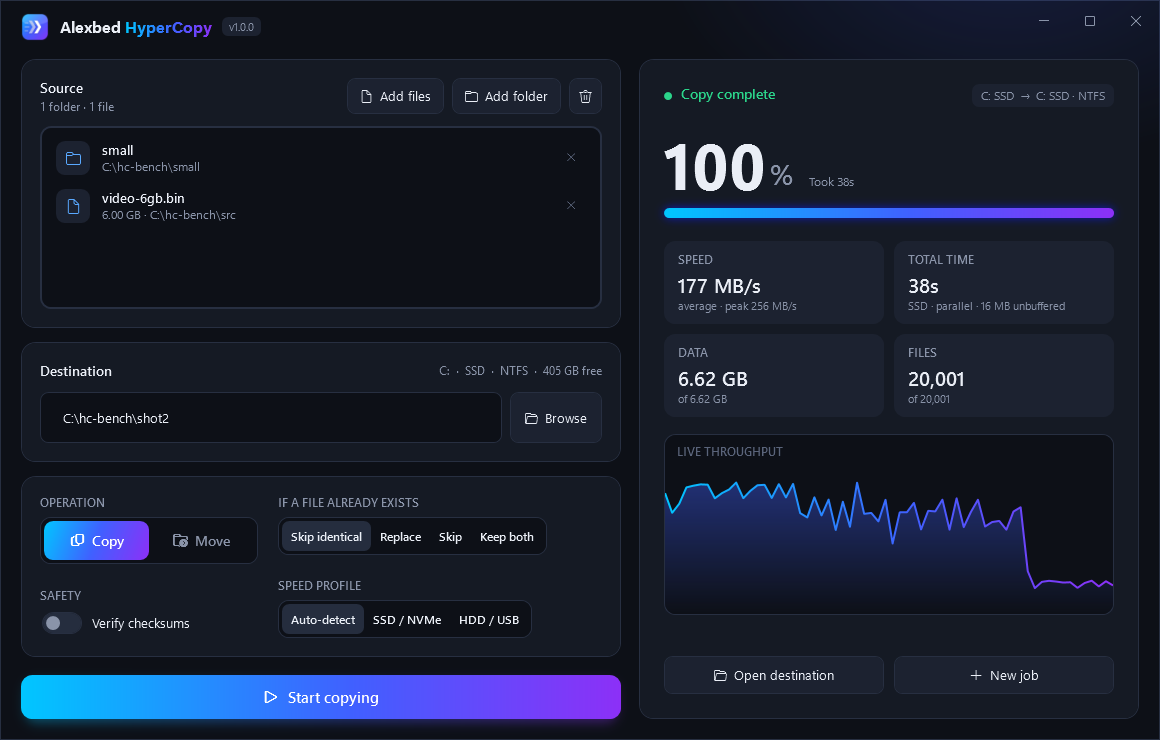
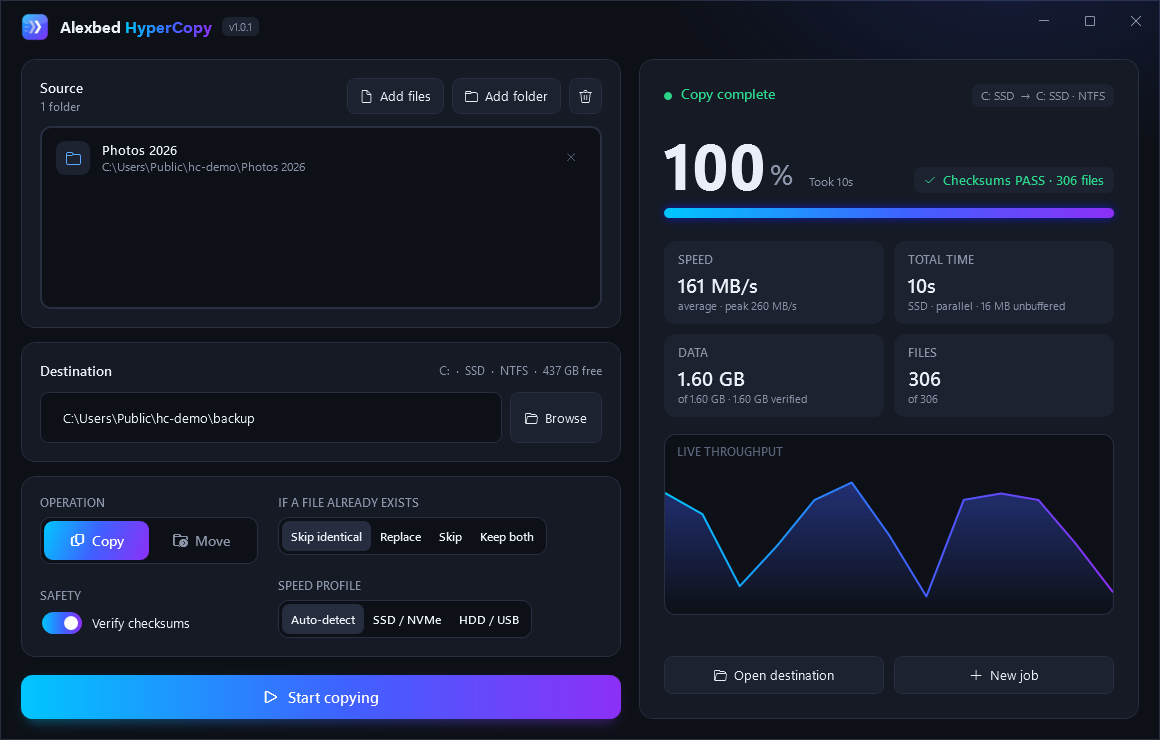
Alexbed HyperCopy 1.0.1: checksum PASS/FAIL badge
With "Verify checksums" on, the finished screen shows a clear verdict:
"Checksums PASS · N files" (green) or "Checksum FAIL · N files" (red),
with details on hover. No log file is written. The CLI prints the same.

- Engine counts files whose read-back matched (ChecksumsPassed) and files
  that still mismatched after retries (ChecksumsFailed, new
  ChecksumMismatchException); both are exposed on CopyResult.
- Tests: pass count, skipped files not counted, and a corrupted copy is
  reported as FAIL and deleted (38 tests).
- HYPERCOPY_VERIFY=1 test hook for screenshots; new complete.png.

diff --git a/src/Alexbed.HyperCopy.App/MainWindow.xaml b/src/Alexbed.HyperCopy.App/MainWindow.xaml
@@ -307,6 +307,14 @@
                                 </StackPanel>
                             </DockPanel>
 
+                            <Border Grid.Row="1" HorizontalAlignment="Right" VerticalAlignment="Bottom" Margin="0,0,0,13"
+                                    Background="{StaticResource Surface2}" CornerRadius="7" Padding="10,5" ToolTip="{Binding ChecksumTip}"
+                                    Visibility="{Binding ShowChecksum, Converter={StaticResource BoolToVis}}">
+                                <StackPanel Orientation="Horizontal">
+                                    <TextBlock FontFamily="{StaticResource IconFont}" Text="{Binding ChecksumGlyph}" FontSize="12" Foreground="{Binding ChecksumBrush}" VerticalAlignment="Center" Margin="0,0,7,0"/>
+                                    <TextBlock Text="{Binding ChecksumText}" FontSize="12.5" FontWeight="SemiBold" Foreground="{Binding ChecksumBrush}" VerticalAlignment="Center"/>
+                                </StackPanel>
+                            </Border>
                             <StackPanel Grid.Row="1" Orientation="Horizontal" Margin="0,14,0,0">
                                 <TextBlock Text="{Binding PercentText}" FontFamily="{StaticResource DisplayFont}" FontSize="64" FontWeight="Bold" Foreground="{StaticResource Text}"/>
                                 <TextBlock Text="%" FontFamily="{StaticResource DisplayFont}" FontSize="28" FontWeight="SemiBold" Foreground="{StaticResource Muted}" VerticalAlignment="Bottom" Margin="4,0,0,14"/>

diff --git a/src/Alexbed.HyperCopy.App/MainViewModel.cs b/src/Alexbed.HyperCopy.App/MainViewModel.cs
@@ -155,6 +155,18 @@ public sealed class MainViewModel : Observable
     private string _currentFile = "";
     public string CurrentFile { get => _currentFile; private set => Set(ref _currentFile, value); }
     private double _peak;
+
+    // Checksum pass/fail badge (only when "Verify checksums" is on).
+    private bool _showChecksum;
+    public bool ShowChecksum { get => _showChecksum; private set => Set(ref _showChecksum, value); }
+    private string _checksumText = "";
+    public string ChecksumText { get => _checksumText; private set => Set(ref _checksumText, value); }
+    private string _checksumGlyph = "";
+    public string ChecksumGlyph { get => _checksumGlyph; private set => Set(ref _checksumGlyph, value); }
+    private string _checksumTip = "";
+    public string ChecksumTip { get => _checksumTip; private set => Set(ref _checksumTip, value); }
+    private Brush _checksumBrush = Brushes.White;
+    public Brush ChecksumBrush { get => _checksumBrush; private set => Set(ref _checksumBrush, value); }
     public bool HasErrors => Errors.Count > 0;
 
     // ── Commands ──
@@ -243,6 +255,7 @@ public sealed class MainViewModel : Observable
             else if (result.FilesFailed > 0) Finish($"Finished with {result.FilesFailed} error{(result.FilesFailed == 1 ? "" : "s")}", "Warning");
             else Finish(Mode == TransferMode.Move ? "Move complete" : "Copy complete", "Success");
 
+            UpdateChecksumBadge(_engine.Progress, done: !result.Cancelled && result.FatalError is null);
             ElapsedText = $"Took {Format.Duration(result.Elapsed)}";
             if (result.BytesTransferred > 0)
             {
@@ -376,6 +389,7 @@ public sealed class MainViewModel : Observable
         FilesText = Format.Count(doneFiles);
         FilesSub = $"of {Format.Count(p.TotalFiles)}" + (p.FailedFiles > 0 ? $" · {p.FailedFiles} failed" : "") +
                    (p.SkippedFiles > 0 ? $" · {Format.Count(p.SkippedFiles)} skipped" : "");
+        UpdateChecksumBadge(p, done: false);
         if (State is JobState.Running or JobState.Paused && p.CurrentFile is { } cf)
             CurrentFile = cf;
         Raise(nameof(EtaLabel));
@@ -385,6 +399,47 @@ public sealed class MainViewModel : Observable
     {
         Percent = 0; PercentText = "0"; SpeedText = "—"; SpeedSub = ""; EtaText = "—"; ElapsedText = "";
         BytesText = "—"; BytesSub = ""; FilesText = "—"; FilesSub = ""; CurrentFile = "";
+        ShowChecksum = false; ChecksumText = ""; ChecksumTip = "";
+    }
+
+    /// <summary>PASS / FAIL badge for the verification pass. While running it shows the count so far;
+    /// once the job has finished normally it gives the final verdict.</summary>
+    private void UpdateChecksumBadge(CopyProgress p, bool done)
+    {
+        if (!p.VerifyEnabled) { ShowChecksum = false; return; }
+        ShowChecksum = true;
+        long passed = p.ChecksumsPassed, failed = p.ChecksumsFailed;
+        string skipped = p.SkippedFiles > 0 ? $"\n{Format.Count(p.SkippedFiles)} skipped file(s) were not copied, so not checked." : "";
+
+        if (failed > 0)
+        {
+            ChecksumGlyph = "";
+            ChecksumText = $"Checksum FAIL · {Format.Count(failed)} file{(failed == 1 ? "" : "s")}";
+            ChecksumBrush = (Brush)Application.Current.Resources["Danger"];
+            ChecksumTip = $"{Format.Count(failed)} file(s) did not match the source after retrying. They are listed with the errors; " +
+                          $"the bad copies were deleted. {Format.Count(passed)} file(s) matched.{skipped}";
+        }
+        else if (!done)
+        {
+            ChecksumGlyph = "";
+            ChecksumText = $"Checksums · {Format.Count(passed)} OK";
+            ChecksumBrush = (Brush)Application.Current.Resources["Muted"];
+            ChecksumTip = "Every copied file is read back from the destination and its XXH3 checksum compared with the source.";
+        }
+        else if (passed > 0)
+        {
+            ChecksumGlyph = "";
+            ChecksumText = $"Checksums PASS · {Format.Count(passed)} file{(passed == 1 ? "" : "s")}";
+            ChecksumBrush = (Brush)Application.Current.Resources["Success"];
+            ChecksumTip = $"All {Format.Count(passed)} copied file(s) were read back from the destination and match the source (XXH3).{skipped}";
+        }
+        else
+        {
+            ChecksumGlyph = "";
+            ChecksumText = "Checksums · nothing to check";
+            ChecksumBrush = (Brush)Application.Current.Resources["Muted"];
+            ChecksumTip = "No file data was written (files were skipped, or moved instantly on the same drive), so there was nothing to verify." + skipped;
+        }
     }
 
     private void SetStatus(string text, string brushKey)

diff --git a/src/Alexbed.HyperCopy.Core/CopyEngine.cs b/src/Alexbed.HyperCopy.Core/CopyEngine.cs
@@ -22,6 +22,9 @@ public sealed class CopyEngine
 
     private readonly CopyOptions _options;
     private readonly ConcurrentQueue<CopyError> _errors = new();
+
+    /// <summary>Test hook: runs on the written file just before it is read back for verification.</summary>
+    internal Action<string>? BeforeVerify { get; set; }
     private readonly ConcurrentBag<PipelinedFileCopier> _copierPool = new();
     private TuningProfile _tuning = null!;
 
@@ -284,6 +287,9 @@ public sealed class CopyEngine
         result.FilesCopied = Progress.CompletedFiles;
         result.FilesSkipped = Progress.SkippedFiles;
         result.FilesFailed = Progress.FailedFiles;
+        result.Verified = _options.Verify;
+        result.ChecksumsPassed = Progress.ChecksumsPassed;
+        result.ChecksumsFailed = Progress.ChecksumsFailed;
         result.BytesTransferred = Progress.TransferredBytes;
         result.Errors.AddRange(_errors);
         return result;
@@ -393,7 +399,10 @@ public sealed class CopyEngine
                 FastFileIo.ApplyAttributes(dest, item.Attributes);
 
                 if (_options.Verify)
+                {
+                    BeforeVerify?.Invoke(dest);
                     VerifyCopy(dest, srcHash, ct);
+                }
 
                 // Balance the percentage when the file changed size since the scan.
                 if (reported != item.Length) Progress.AddProcessedOnly(item.Length - reported);
@@ -401,6 +410,7 @@ public sealed class CopyEngine
                 if (_options.Mode == TransferMode.Move)
                     DeleteSource(item.Source);
 
+                if (_options.Verify) Progress.ChecksumPassed();
                 Progress.FileCompleted();
                 return;
             }
@@ -426,6 +436,7 @@ public sealed class CopyEngine
 
                 Progress.AddProcessedOnly(item.Length);
                 Progress.FileFailed();
+                if (ex is ChecksumMismatchException) Progress.ChecksumFailed();
                 _errors.Enqueue(new CopyError(item.Source, Describe(ex)));
                 return;
             }
@@ -545,7 +556,7 @@ public sealed class CopyEngine
         {
             ulong actual = FastFileIo.HashFile(dest, buffer, n => { verified += n; Progress.AddVerified(n); }, Pause, ct);
             if (actual != expected)
-                throw new IOException("Verification failed: the copy does not match the source (checksum mismatch).");
+                throw new ChecksumMismatchException();
         }
         catch
         {
@@ -648,3 +659,7 @@ public sealed class CopyEngine
         _ => ex.Message,
     };
 }
+
+/// <summary>The copy read back from the destination does not match the source.</summary>
+public sealed class ChecksumMismatchException()
+    : IOException("Verification failed: the copy does not match the source (checksum mismatch).");

diff --git a/tests/Alexbed.HyperCopy.Tests/EngineTests.cs b/tests/Alexbed.HyperCopy.Tests/EngineTests.cs
@@ -399,4 +399,59 @@ public class EngineTests
         var tuning = DriveProbe.ResolveTuning(d, d, new CopyOptions());
         Assert.True(tuning.BufferSize % 4096 == 0);
     }
+
+    [Fact]
+    public void Verify_reports_checksum_pass_count()
+    {
+        using var t = new TempDir();
+        var data = t.Sub("data");
+        MakeFile(Path.Combine(data, "small.bin"), 10_000);
+        MakeFile(Path.Combine(data, "sub", "large.bin"), 6L * 1024 * 1024);
+        var dst = t.Sub("dst");
+
+        var r = Run(new CopyOptions { Verify = true }, [data], dst);
+        Assert.True(r.Success);
+        Assert.True(r.Verified);
+        Assert.Equal(2, r.ChecksumsPassed);
+        Assert.Equal(0, r.ChecksumsFailed);
+
+        // A second run skips identical files: nothing copied, so nothing checked.
+        var again = Run(new CopyOptions { Verify = true, Conflict = ConflictPolicy.SkipIdentical }, [data], dst);
+        Assert.Equal(2, again.FilesSkipped);
+        Assert.Equal(0, again.ChecksumsPassed);
+
+        var off = Run(new CopyOptions { Conflict = ConflictPolicy.Overwrite }, [data], dst);
+        Assert.False(off.Verified);
+        Assert.Equal(0, off.ChecksumsPassed);
+    }
+
+    [Theory]
+    [InlineData(10_000L)]
+    [InlineData(6L * 1024 * 1024)]
+    public void Verify_reports_checksum_fail_when_copy_is_corrupted(long size)
+    {
+        using var t = new TempDir();
+        var src = MakeFile(Path.Combine(t.Sub("src"), "f.bin"), size);
+        var good = MakeFile(Path.Combine(t.Path, "src", "g.bin"), 5000);
+        var dst = t.Sub("dst");
+
+        var engine = new CopyEngine(new CopyOptions { Verify = true });
+        engine.BeforeVerify = path =>
+        {
+            if (!path.EndsWith("f.bin", StringComparison.Ordinal)) return;
+            using var fs = new FileStream(path, FileMode.Open, FileAccess.ReadWrite);
+            int b = fs.ReadByte();
+            fs.Position = 0;
+            fs.WriteByte((byte)(b ^ 0xFF)); // flip one byte on disk
+        };
+        var r = engine.Execute(engine.Scan([src, good], dst));
+
+        Assert.False(r.Success);
+        Assert.Equal(1, r.ChecksumsFailed);
+        Assert.Equal(1, r.ChecksumsPassed);
+        Assert.Equal(1, r.FilesFailed);
+        Assert.Contains(r.Errors, e => e.Message.Contains("checksum mismatch"));
+
+        Assert.False(File.Exists(Path.Combine(dst, "f.bin")));  // bad copy removed
+    }
 }

diff --git a/src/Alexbed.HyperCopy.Core/CopyProgress.cs b/src/Alexbed.HyperCopy.Core/CopyProgress.cs
@@ -19,6 +19,7 @@ public sealed class CopyProgress
     private long _totalBytes, _processedBytes, _transferredBytes, _verifiedBytes;
     private long _totalFiles, _completedFiles, _skippedFiles, _failedFiles;
     private long _scannedFiles, _scannedBytes;
+    private long _checksumsPassed, _checksumsFailed;
     private volatile string? _currentFile;
     private volatile CopyPhase _phase;
     private volatile bool _verifyEnabled;
@@ -36,6 +37,11 @@ public sealed class CopyProgress
     public long CompletedFiles => Interlocked.Read(ref _completedFiles);
     public long SkippedFiles => Interlocked.Read(ref _skippedFiles);
     public long FailedFiles => Interlocked.Read(ref _failedFiles);
+    /// <summary>Files whose copy was read back and matched the source checksum.</summary>
+    public long ChecksumsPassed => Interlocked.Read(ref _checksumsPassed);
+    /// <summary>Files that still did not match the source after all retries (they count as failed).</summary>
+    public long ChecksumsFailed => Interlocked.Read(ref _checksumsFailed);
+    public bool VerifyEnabled => _verifyEnabled;
     public long ScannedFiles => Interlocked.Read(ref _scannedFiles);
     public long ScannedBytes => Interlocked.Read(ref _scannedBytes);
 
@@ -64,6 +70,8 @@ public sealed class CopyProgress
         Interlocked.Exchange(ref _completedFiles, 0);
         Interlocked.Exchange(ref _skippedFiles, 0);
         Interlocked.Exchange(ref _failedFiles, 0);
+        Interlocked.Exchange(ref _checksumsPassed, 0);
+        Interlocked.Exchange(ref _checksumsFailed, 0);
         _verifyEnabled = verify;
     }
 
@@ -104,6 +112,8 @@ public sealed class CopyProgress
     internal void FilesCompleted(long count) => Interlocked.Add(ref _completedFiles, count);
     internal void FileSkipped() => Interlocked.Increment(ref _skippedFiles);
     internal void FileFailed() => Interlocked.Increment(ref _failedFiles);
+    internal void ChecksumPassed() => Interlocked.Increment(ref _checksumsPassed);
+    internal void ChecksumFailed() => Interlocked.Increment(ref _checksumsFailed);
 }
 
 /// <summary>Cooperative pause gate checked between buffers and between files.</summary>

diff --git a/src/Alexbed.HyperCopy.Cli/Program.cs b/src/Alexbed.HyperCopy.Cli/Program.cs
@@ -84,6 +84,10 @@ if (!quiet)
 var r = job.Result;
 Console.WriteLine($"Done in {r.Elapsed.TotalSeconds:0.00}s — copied {r.FilesCopied}, skipped {r.FilesSkipped}, failed {r.FilesFailed}, " +
                   $"{Format.Bytes(r.BytesTransferred)} @ {Format.Speed(r.AverageBytesPerSecond)}");
+if (r.Verified)
+    Console.WriteLine(r.ChecksumsFailed > 0
+        ? $"Checksums: FAIL — {r.ChecksumsFailed} file(s) did not match the source ({r.ChecksumsPassed} passed)"
+        : $"Checksums: PASS — {r.ChecksumsPassed} file(s) read back and matched" + (r.FilesSkipped > 0 ? $" ({r.FilesSkipped} skipped, not checked)" : ""));
 if (r.Cancelled) Console.WriteLine("Cancelled.");
 if (r.FatalError is not null) Console.WriteLine("Fatal: " + r.FatalError);
 foreach (var e in r.Errors.Take(50)) Console.WriteLine($"  ! {e.Path}: {e.Message}");

diff --git a/src/Alexbed.HyperCopy.Core/CopyPlan.cs b/src/Alexbed.HyperCopy.Core/CopyPlan.cs
@@ -54,6 +54,10 @@ public sealed class CopyResult
     public long FilesCopied { get; internal set; }
     public long FilesSkipped { get; internal set; }
     public long FilesFailed { get; internal set; }
+    /// <summary>True when the job ran with checksum verification.</summary>
+    public bool Verified { get; internal set; }
+    public long ChecksumsPassed { get; internal set; }
+    public long ChecksumsFailed { get; internal set; }
     public long BytesTransferred { get; internal set; }
     public TimeSpan Elapsed { get; internal set; }
     public bool Cancelled { get; internal set; }

diff --git a/src/Alexbed.HyperCopy.App/MainWindow.xaml.cs b/src/Alexbed.HyperCopy.App/MainWindow.xaml.cs
@@ -50,6 +50,8 @@ public partial class MainWindow : Window
 
         Loaded += async (_, _) =>
         {
+            if (Environment.GetEnvironmentVariable("HYPERCOPY_VERIFY") == "1")
+                _vm.Verify = true;
             if (Environment.GetEnvironmentVariable("HYPERCOPY_AUTOSTART") == "1")
                 _ = _vm.StartAsync(this);
             if (Environment.GetEnvironmentVariable("HYPERCOPY_SNAPSHOT") is { Length: > 0 } shot)

diff --git a/CLAUDE.md b/CLAUDE.md
@@ -5,7 +5,7 @@ A free, portable Windows 10/11 app that copies and moves files (up to terabytes)
 choose sources and a destination folder or USB drive, pick **Copy** or **Move**, and watch live speed/ETA. It's one
 of Alexander's "Alexbed" apps, built from scratch with Claude in Nov 2026.
 
-- **Status:** v1.0.0 released 2026-11-13. Public repo https://github.com/alexbedca/Alexbed-HyperCopy
+- **Status:** v1.0.1 released 2026-11-14 (checksum PASS/FAIL badge); v1.0.0 released 2026-11-13. Public repo https://github.com/alexbedca/Alexbed-HyperCopy
   (GPL-3.0-or-later), release with `AlexbedHyperCopy.exe` + `hypercopy.exe` (CLI) + `SHA256SUMS.txt`, CI green,
   social preview set.
 - **Next (v1.1):** close the small-file gap with Robocopy `/MT` on SSD (~2× slower today). See `ROADMAP.md`.
@@ -18,17 +18,17 @@ C# / .NET 10 (`net10.0-windows`), WPF UI, xUnit tests, System.IO.Hashing (XXH3) 
 src/Alexbed.HyperCopy.Core   engine: CopyEngine, PipelinedFileCopier (FastFileIo.cs), DriveProbe, options/progress
 src/Alexbed.HyperCopy.App    WPF window: MainWindow.xaml(.cs), MainViewModel.cs, theme in App.xaml
 src/Alexbed.HyperCopy.Cli    hypercopy.exe
-tests/Alexbed.HyperCopy.Tests  35 tests
+tests/Alexbed.HyperCopy.Tests  38 tests
 tools/                       benchmark.ps1, make_logo.py, make_social_preview.py
 build.ps1                    tests + portable exes + checksums (also used by CI)
 ```
 
 ## Tools for this project
 **Project commands**
-- `dotnet test -c Release`: 35 tests, ~15 s. Every engine change needs a test.
+- `dotnet test -c Release`: 38 tests, ~15 s. Every engine change needs a test.
 - `powershell -ExecutionPolicy Bypass -File build.ps1` → `dist\` (self-contained single-file exes, ~64 MB + ~36 MB).
 - `dotnet run --project src/Alexbed.HyperCopy.Cli -- copy <src>... <dst> [--verify --profile ssd|hdd --write-depth N --buffer-mb N --threads N]`.
-- Snapshot hook: `HYPERCOPY_SNAPSHOT=<png>` (+ `HYPERCOPY_AUTOSTART=1`, `HYPERCOPY_SNAPSHOT_DELAY=<ms>`) renders
+- Snapshot hook: `HYPERCOPY_SNAPSHOT=<png>` (+ `HYPERCOPY_AUTOSTART=1`, `HYPERCOPY_VERIFY=1`, `HYPERCOPY_SNAPSHOT_DELAY=<ms>`) renders
   the window to PNG and exits. Used for all screenshots and for UI checks without driving the desktop.
 - `python -I tools/make_logo.py <dir>` regenerates logo PNG/ICO. `tools/make_social_preview.py` regenerates the 1280×640 card.
 

diff --git a/README.md b/README.md
@@ -16,7 +16,7 @@
   <a href="../../actions"><img src="https://img.shields.io/github/actions/workflow/status/alexbedca/Alexbed-HyperCopy/build.yml?label=tests" alt="Build status"></a>
 </p>
 
-**Version:** 1.0.0 &nbsp;|&nbsp; **Author:** Alexander Bediako &nbsp;|&nbsp; **Licence:** [GPL-3.0-or-later](LICENSE)
+**Version:** 1.0.1 &nbsp;|&nbsp; **Author:** Alexander Bediako &nbsp;|&nbsp; **Licence:** [GPL-3.0-or-later](LICENSE)
 
 ![HyperCopy copying a 6 GB file at 244 MB/s with a live throughput graph](docs/screenshots/copying.png)
 
@@ -65,7 +65,9 @@ Get-FileHash .\AlexbedHyperCopy.exe -Algorithm SHA256
    | **Keep both** | Saves the new file as `name (2).ext`. |
 
 5. **Verify checksums** (optional): every file is read back from the disk and compared with the original
-   (XXH3). It takes longer, but you get certainty for backups.
+   (XXH3). It takes longer, but you get certainty for backups. When the job ends, a badge shows
+   **Checksums PASS** (every copied file matches) or **Checksum FAIL** (with the number of files; the bad
+   copies are deleted and listed with the errors). Nothing is written to a log file.
 6. **Speed profile:** leave it on *Auto-detect* unless you know better.
 7. Press **Start**. You can pause, resume or cancel at any time. Problems are listed with a reason, and
    *Copy list* puts them on the clipboard.
@@ -118,7 +120,7 @@ It returns exit code `0` when everything succeeded, so it suits scheduled backup
 You need Windows and the [.NET 10 SDK](https://dotnet.microsoft.com/download).
 
 ```powershell
-dotnet test                                          # 35 tests, about 15 s
+dotnet test                                          # 38 tests, about 15 s
 powershell -ExecutionPolicy Bypass -File build.ps1   # tests + portable exes in dist\
 ```
 

diff --git a/CHANGELOG.md b/CHANGELOG.md
@@ -1,5 +1,10 @@
 # Changelog
 
+## 1.0.1 (2026-11-14)
+
+- With **Verify checksums** on, the finished screen now shows a clear **Checksums PASS · N files** or
+  **Checksum FAIL · N files** badge (hover it for details). No log file is written. The CLI prints the same verdict.
+
 ## 1.0.0 (2026-11-13)
 
 First public release.
